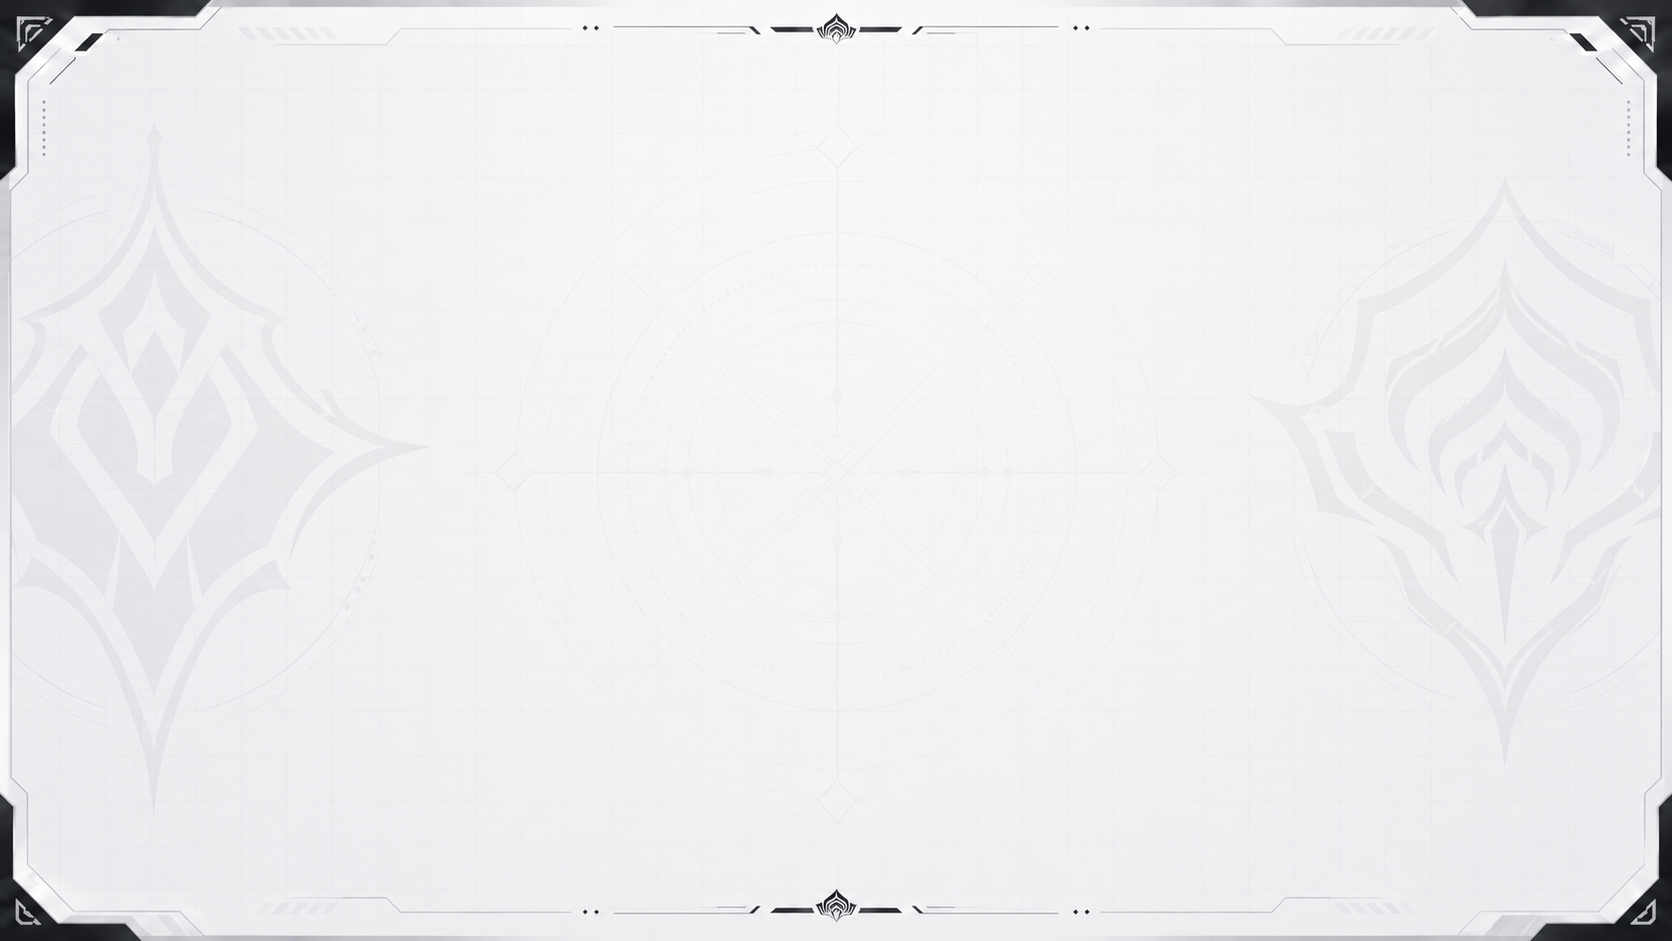
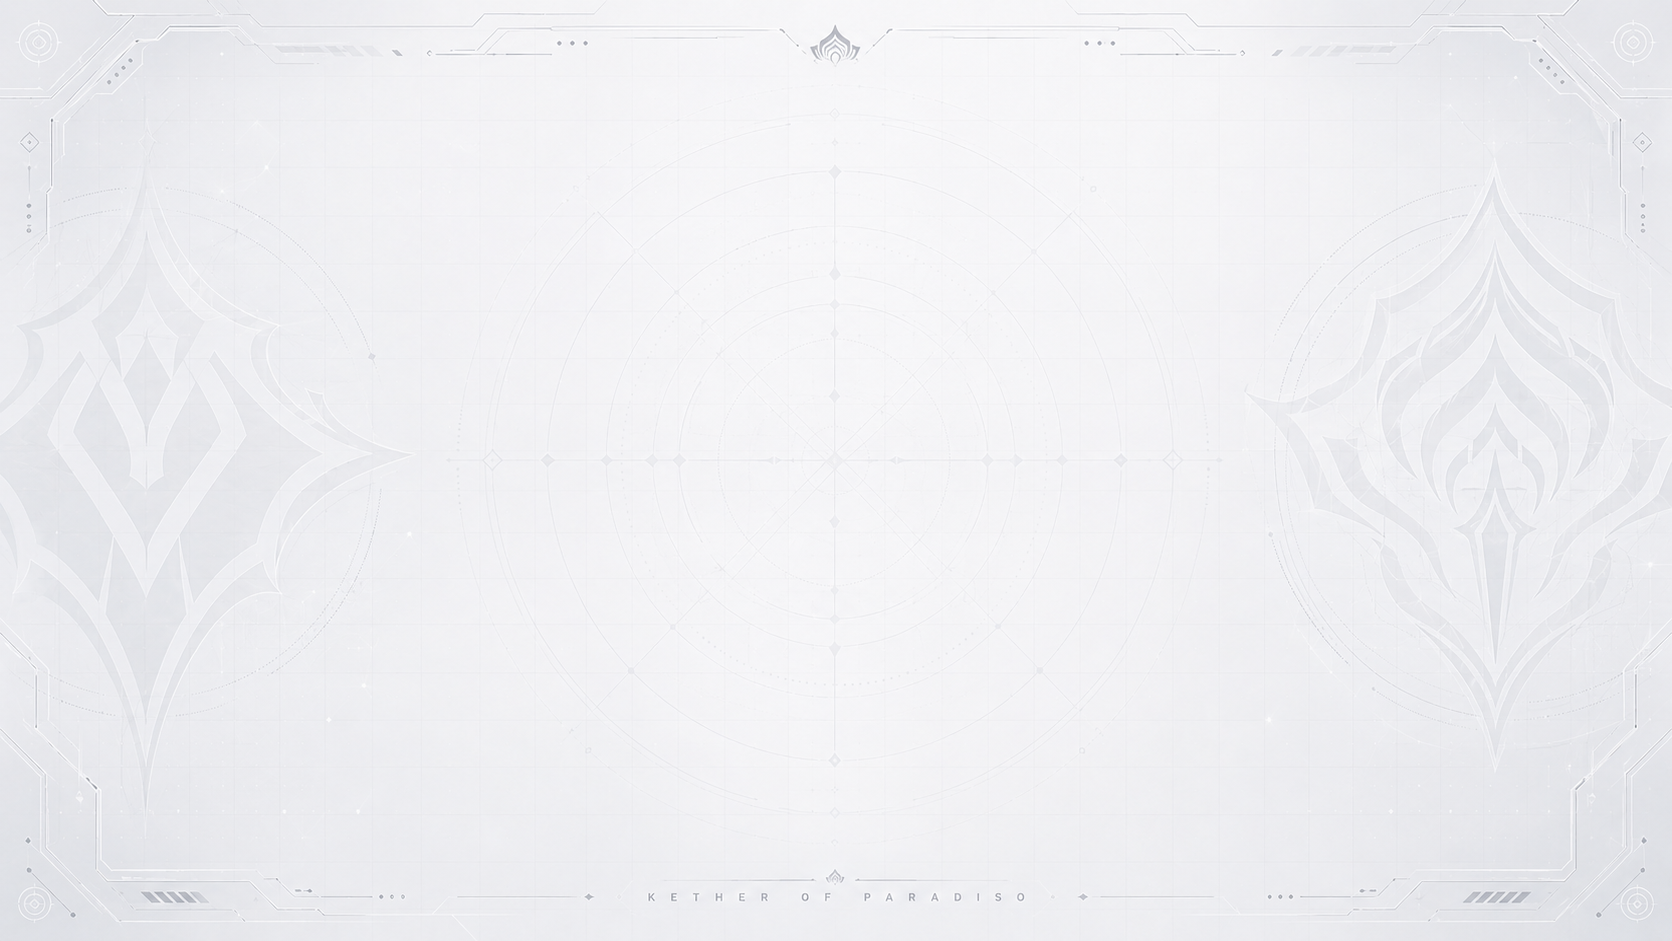
Replace homepage tech background image v2.5.16

diff --git a/app/page.tsx b/app/page.tsx
@@ -236,7 +236,7 @@ export default async function HomePage() {
 
           <div className="total-row">
             <span>網站版本</span>
-            <b>v2.5.15</b>
+            <b>v2.5.16</b>
           </div>
         </article>
 
@@ -246,7 +246,7 @@ export default async function HomePage() {
             <span>5　備註</span>
           </div>
 
-          <p>・v2.5.15 已加入首頁自動資料總控台。</p>
+          <p>・v2.5.16 已加入首頁自動資料總控台。</p>
           <p>・下一階段可做 Discord 登入前置與個人化資料庫設計。</p>
           <p>・完成度目前讀取表格欄位，未來會改為個人獨立紀錄。</p>
           <div className="note-lines" />

diff --git a/app/database/[category]/page.tsx b/app/database/[category]/page.tsx
@@ -91,7 +91,7 @@ export default async function DatabaseCategoryPage({
         <p>KETHER OF PARADISO</p>
         <h1>{config.title}</h1>
         <span>{config.subtitle}</span>
-        <b className="db-version-chip">網站版本 v2.5.15</b>
+        <b className="db-version-chip">網站版本 v2.5.16</b>
       </section>
 
       {error && (

diff --git a/app/db-status/page.tsx b/app/db-status/page.tsx
@@ -224,7 +224,7 @@ export default async function DbStatusPage() {
         <div>
           <p>KETHER OF PARADISO</p>
           <h1>資料庫連線狀態</h1>
-          <span>v2.5.15 Supabase 與 KETHER 免費方案測試頁。</span>
+          <span>v2.5.16 Supabase 與 KETHER 免費方案測試頁。</span>
         </div>
       </header>
 

diff --git a/app/login/page.tsx b/app/login/page.tsx
@@ -14,7 +14,7 @@ export default function LoginPage() {
         <div>
           <p>KETHER OF PARADISO</p>
           <h1>Discord 登入</h1>
-          <span>v2.5.15 權限系統前置頁，下一階段會接入 Discord OAuth。</span>
+          <span>v2.5.16 權限系統前置頁，下一階段會接入 Discord OAuth。</span>
         </div>
       </header>
 

diff --git a/app/profile/page.tsx b/app/profile/page.tsx
@@ -47,7 +47,7 @@ export default function ProfilePage() {
         <div>
           <p>KETHER OF PARADISO</p>
           <h1>個人進度中心</h1>
-          <span>v2.5.15 個人化資料庫前置架構，準備接入 Discord 與資料庫。</span>
+          <span>v2.5.16 個人化資料庫前置架構，準備接入 Discord 與資料庫。</span>
         </div>
       </header>
 